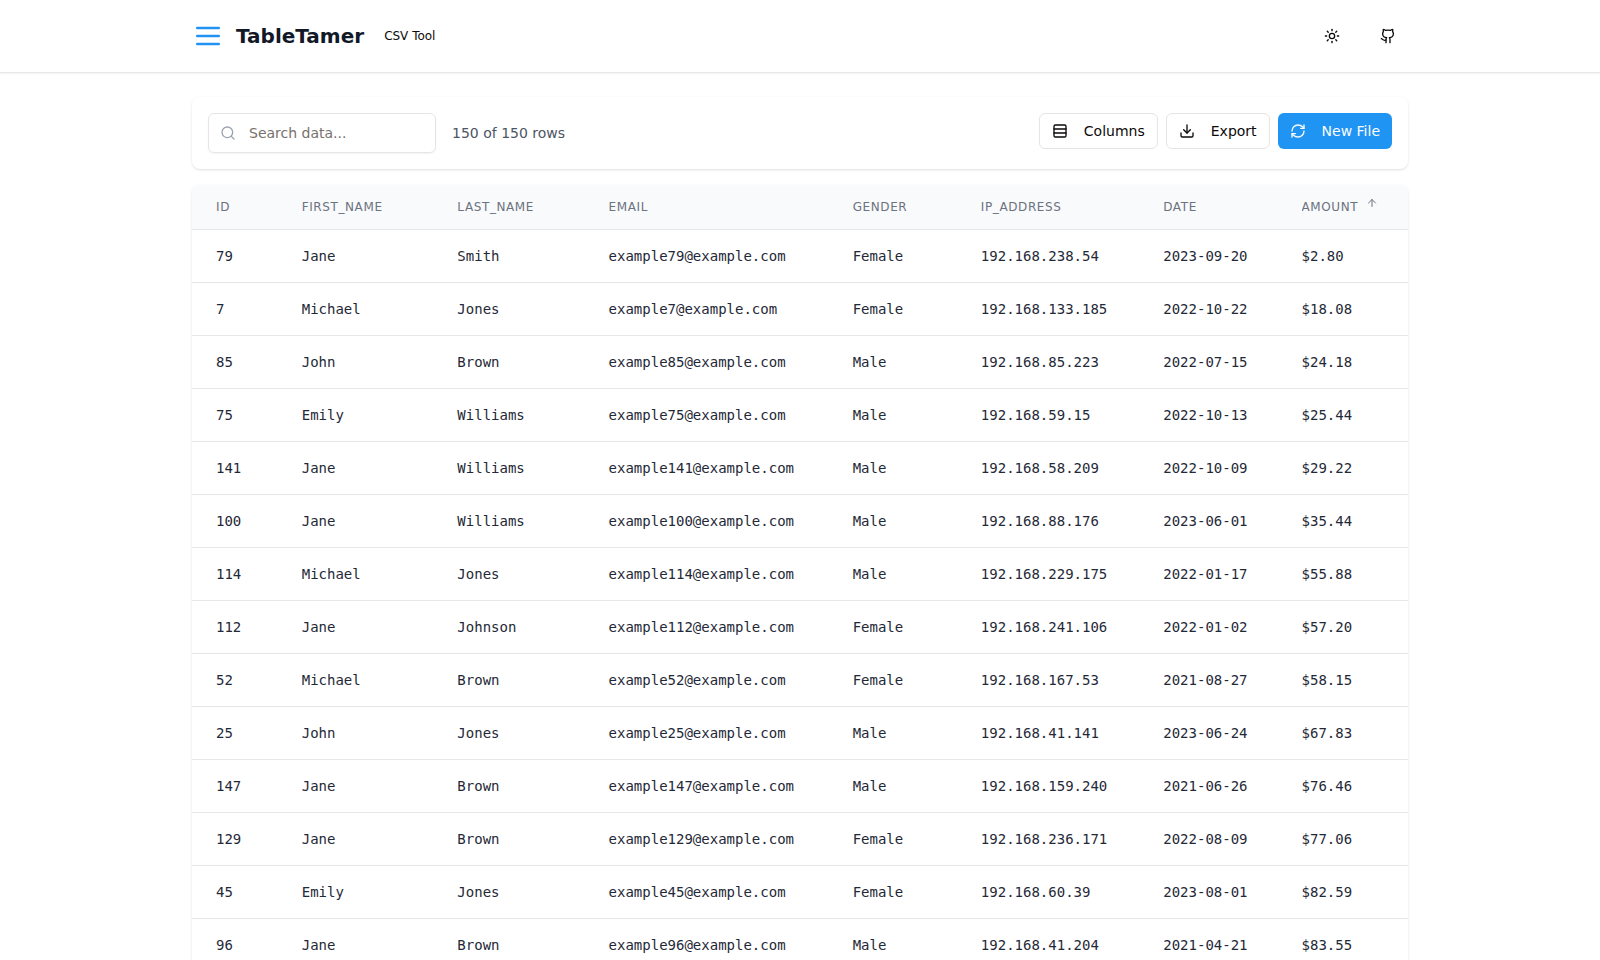
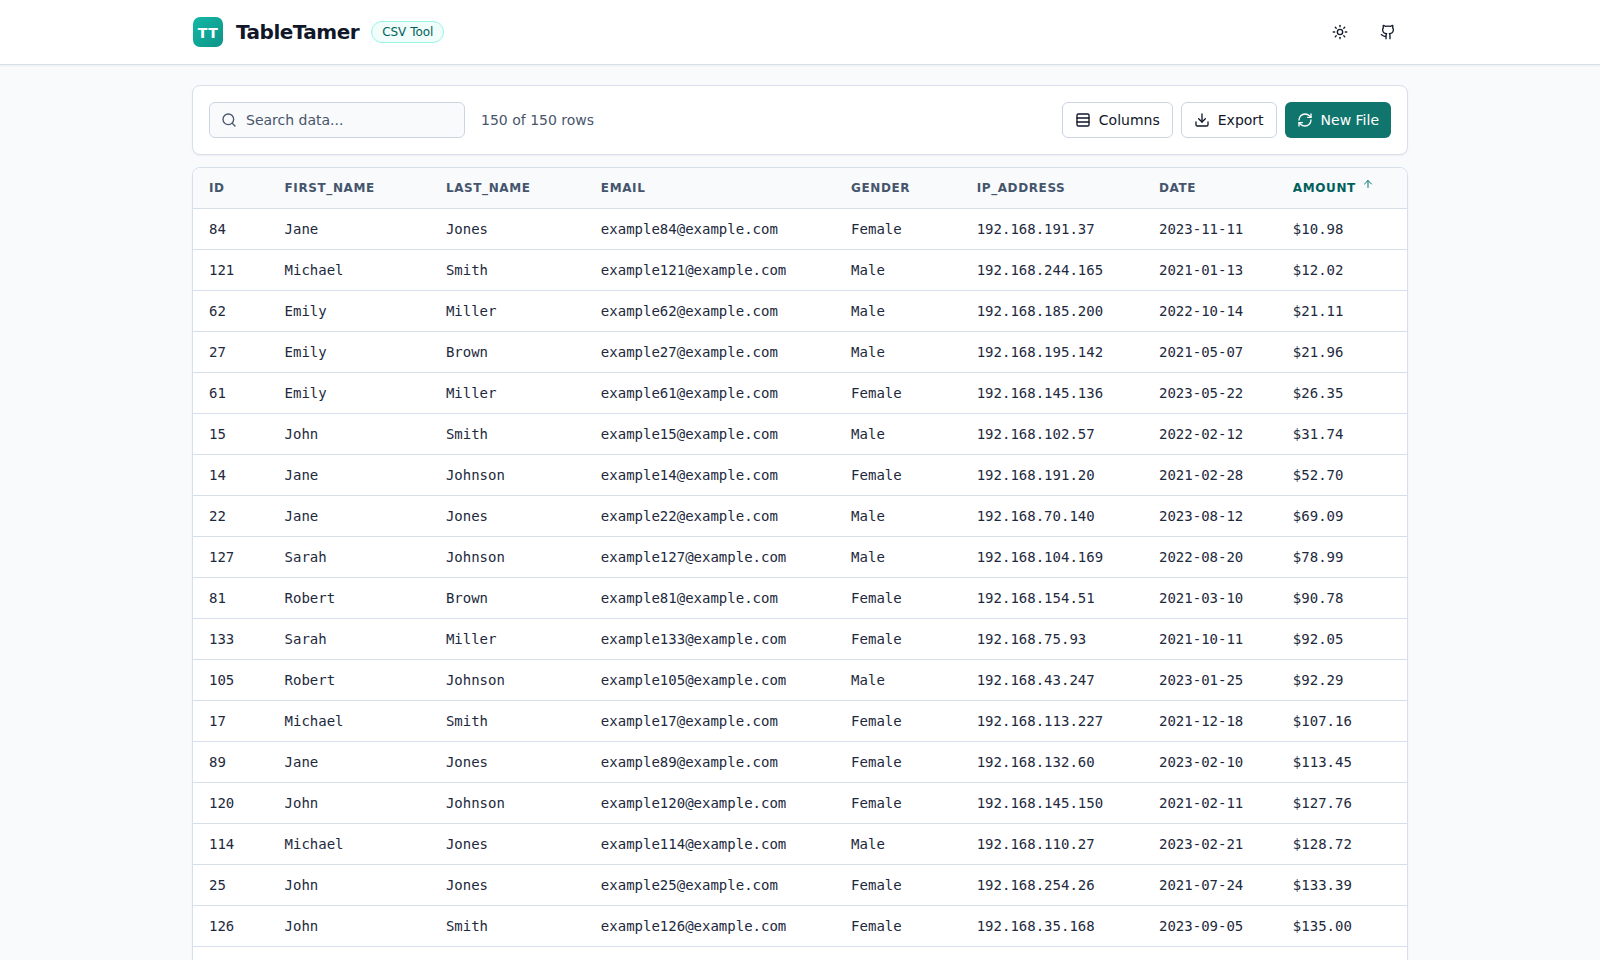
docs: update README badge and screenshot, remove internal hostnames, refresh SECURITY.md

diff --git a/tests/e2e/smoke.spec.ts b/tests/e2e/smoke.spec.ts
@@ -61,7 +61,7 @@ test("app shell loads with security headers and no console errors", async ({ pag
 
 test("security headers are sent once", async ({ request }) => {
   // TT-11 regression guard: nginx must not repeat headers helmet already
-  // sends (fixed on piapps 2026-11-20 by removing the vhost's add_header lines).
+  // sends (fixed 2026-11-20 by removing the vhost's add_header lines).
   const res = await request.get("/");
   const names = res.headersArray().map((h) => h.name.toLowerCase());
   for (const name of ["x-content-type-options", "x-frame-options", "x-xss-protection"]) {
@@ -112,4 +112,23 @@ test("unknown API and asset paths 404 instead of the SPA shell", async ({ reques
 
   const asset = await request.get("/assets/does-not-exist.js");
   expect(asset.status()).toBe(404);
+});
+
+test("teal SVG favicon loads and About modal closes cleanly", async ({ page, request }) => {
+  test.skip(LIVE, "checked locally until the teal UI refresh is deployed");
+
+  const icon = await request.get("/favicon.svg");
+  expect(icon.status()).toBe(200);
+  expect(icon.headers()["content-type"]).toContain("image/svg+xml");
+
+  const errors = watchErrors(page);
+  await page.goto("/");
+  await page.getByRole("button", { name: /about/i }).click();
+  const dialog = page.getByRole("dialog");
+  await expect(dialog).toBeVisible();
+  await expect(dialog).toContainText(`TableTamer v${version}`);
+  // Regression guard: Close button must stay inside viewport and be clickable.
+  await dialog.getByRole("button", { name: "Close" }).first().click();
+  await expect(dialog).toBeHidden();
+  expect(appErrors(errors)).toEqual([]);
 });

diff --git a/README.md b/README.md
@@ -3,7 +3,7 @@
 **Turn a CSV file into a table you can search, sort, edit and export, all in your browser.**
 
 <p>
-  <img src="https://img.shields.io/badge/version-1.1.2-blue" alt="v1.1.2" />
+  <img src="https://img.shields.io/badge/version-1.3.0-0D9488" alt="v1.3.0" />
   <img src="https://img.shields.io/badge/node-%E2%89%A522-339933?logo=node.js&logoColor=white" alt="Node 22+" />
   <img src="https://img.shields.io/badge/React-18-61DAFB?logo=react&logoColor=black" alt="React 18" />
   <img src="https://img.shields.io/badge/Vite-7-646CFF?logo=vite&logoColor=white" alt="Vite 7" />
@@ -147,7 +147,7 @@ ecosystem.config.cjs pm2 process definition
 
 ## Deployment
 
-TableTamer runs on piapps under pm2, behind nginx with TLS.
+TableTamer runs under pm2 behind nginx with TLS.
 
 ```bash
 git pull --ff-only origin main

diff --git a/SECURITY.md b/SECURITY.md
@@ -4,8 +4,8 @@
 
 | Version | Supported          |
 | ------- | ------------------ |
-| 1.2.x   | :white_check_mark: |
-| < 1.2   | :x:                |
+| 1.3.x   | :white_check_mark: |
+| < 1.3   | :x:                |
 
 ## Reporting a Vulnerability
 
